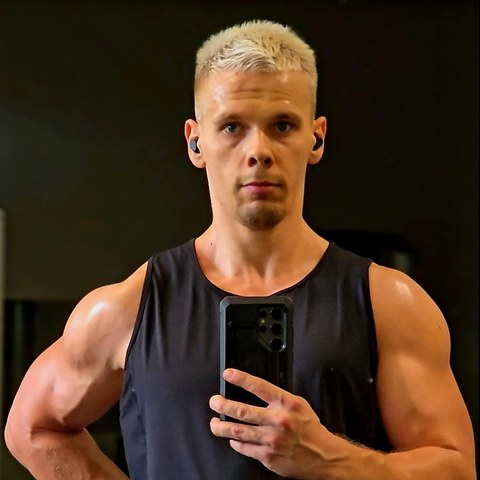
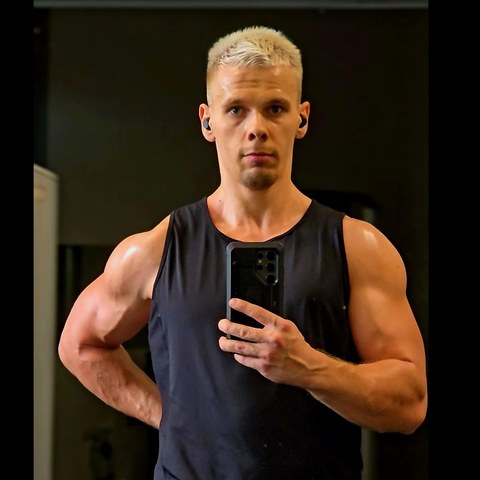
Show Lendak with a map link and a wider portrait crop
- Location reads "Lendak, <country>" in all five languages and opens
  Google Maps (also clickable in the PDF).
- Portrait crop widened to match the Facebook profile picture: head
  centred at the top, both arms and elbows visible.

diff --git a/AGENTS.md b/AGENTS.md
@@ -16,7 +16,8 @@
   `scripts/site.mjs`, styles `css/cv.css` (screen + A4 print). Native browser print
   (Ctrl+P) is the PDF source and must stay two A4 pages with clickable links.
   No profile ("O mne"), Udemy projects, availability statement, footer or buttons.
-  Location shows the country only. German level is "basic", never a CEFR code.
+  Location is "Lendak, <country>" linked to Google Maps. German level is "basic",
+  never a CEFR code. Portrait crop must show the head and both elbows (as on Facebook).
 - Latest saved SK PDF uses Inter. Other saved language PDFs predate final Inter
   verification. Do not silently claim every saved artifact is current or approved.
 - Keep local dependencies, credentials, caches and browser profiles out of Git.

diff --git a/docs/obsah-sk.md b/docs/obsah-sk.md
@@ -8,7 +8,7 @@ Dizajn sa rieši až v ďalšej fáze.
 ## František Stolár
 Výroba · Sklad a logistika · Zákaznícka podpora · Digitálne zručnosti
 
-**Kontakt:** Slovensko · +421 907 407 968 · fero.stolar@gmail.com ·
+**Kontakt:** Lendak, Slovensko (odkaz na Google Mapy) · +421 907 407 968 · fero.stolar@gmail.com ·
 frantisek-stolar.cv · klikateľné ikonky GitHub a LinkedIn (fungujú aj v PDF)
 
 *(Časť „O mne“ je vyradená – CV začína rovno pracovnými skúsenosťami.)*
